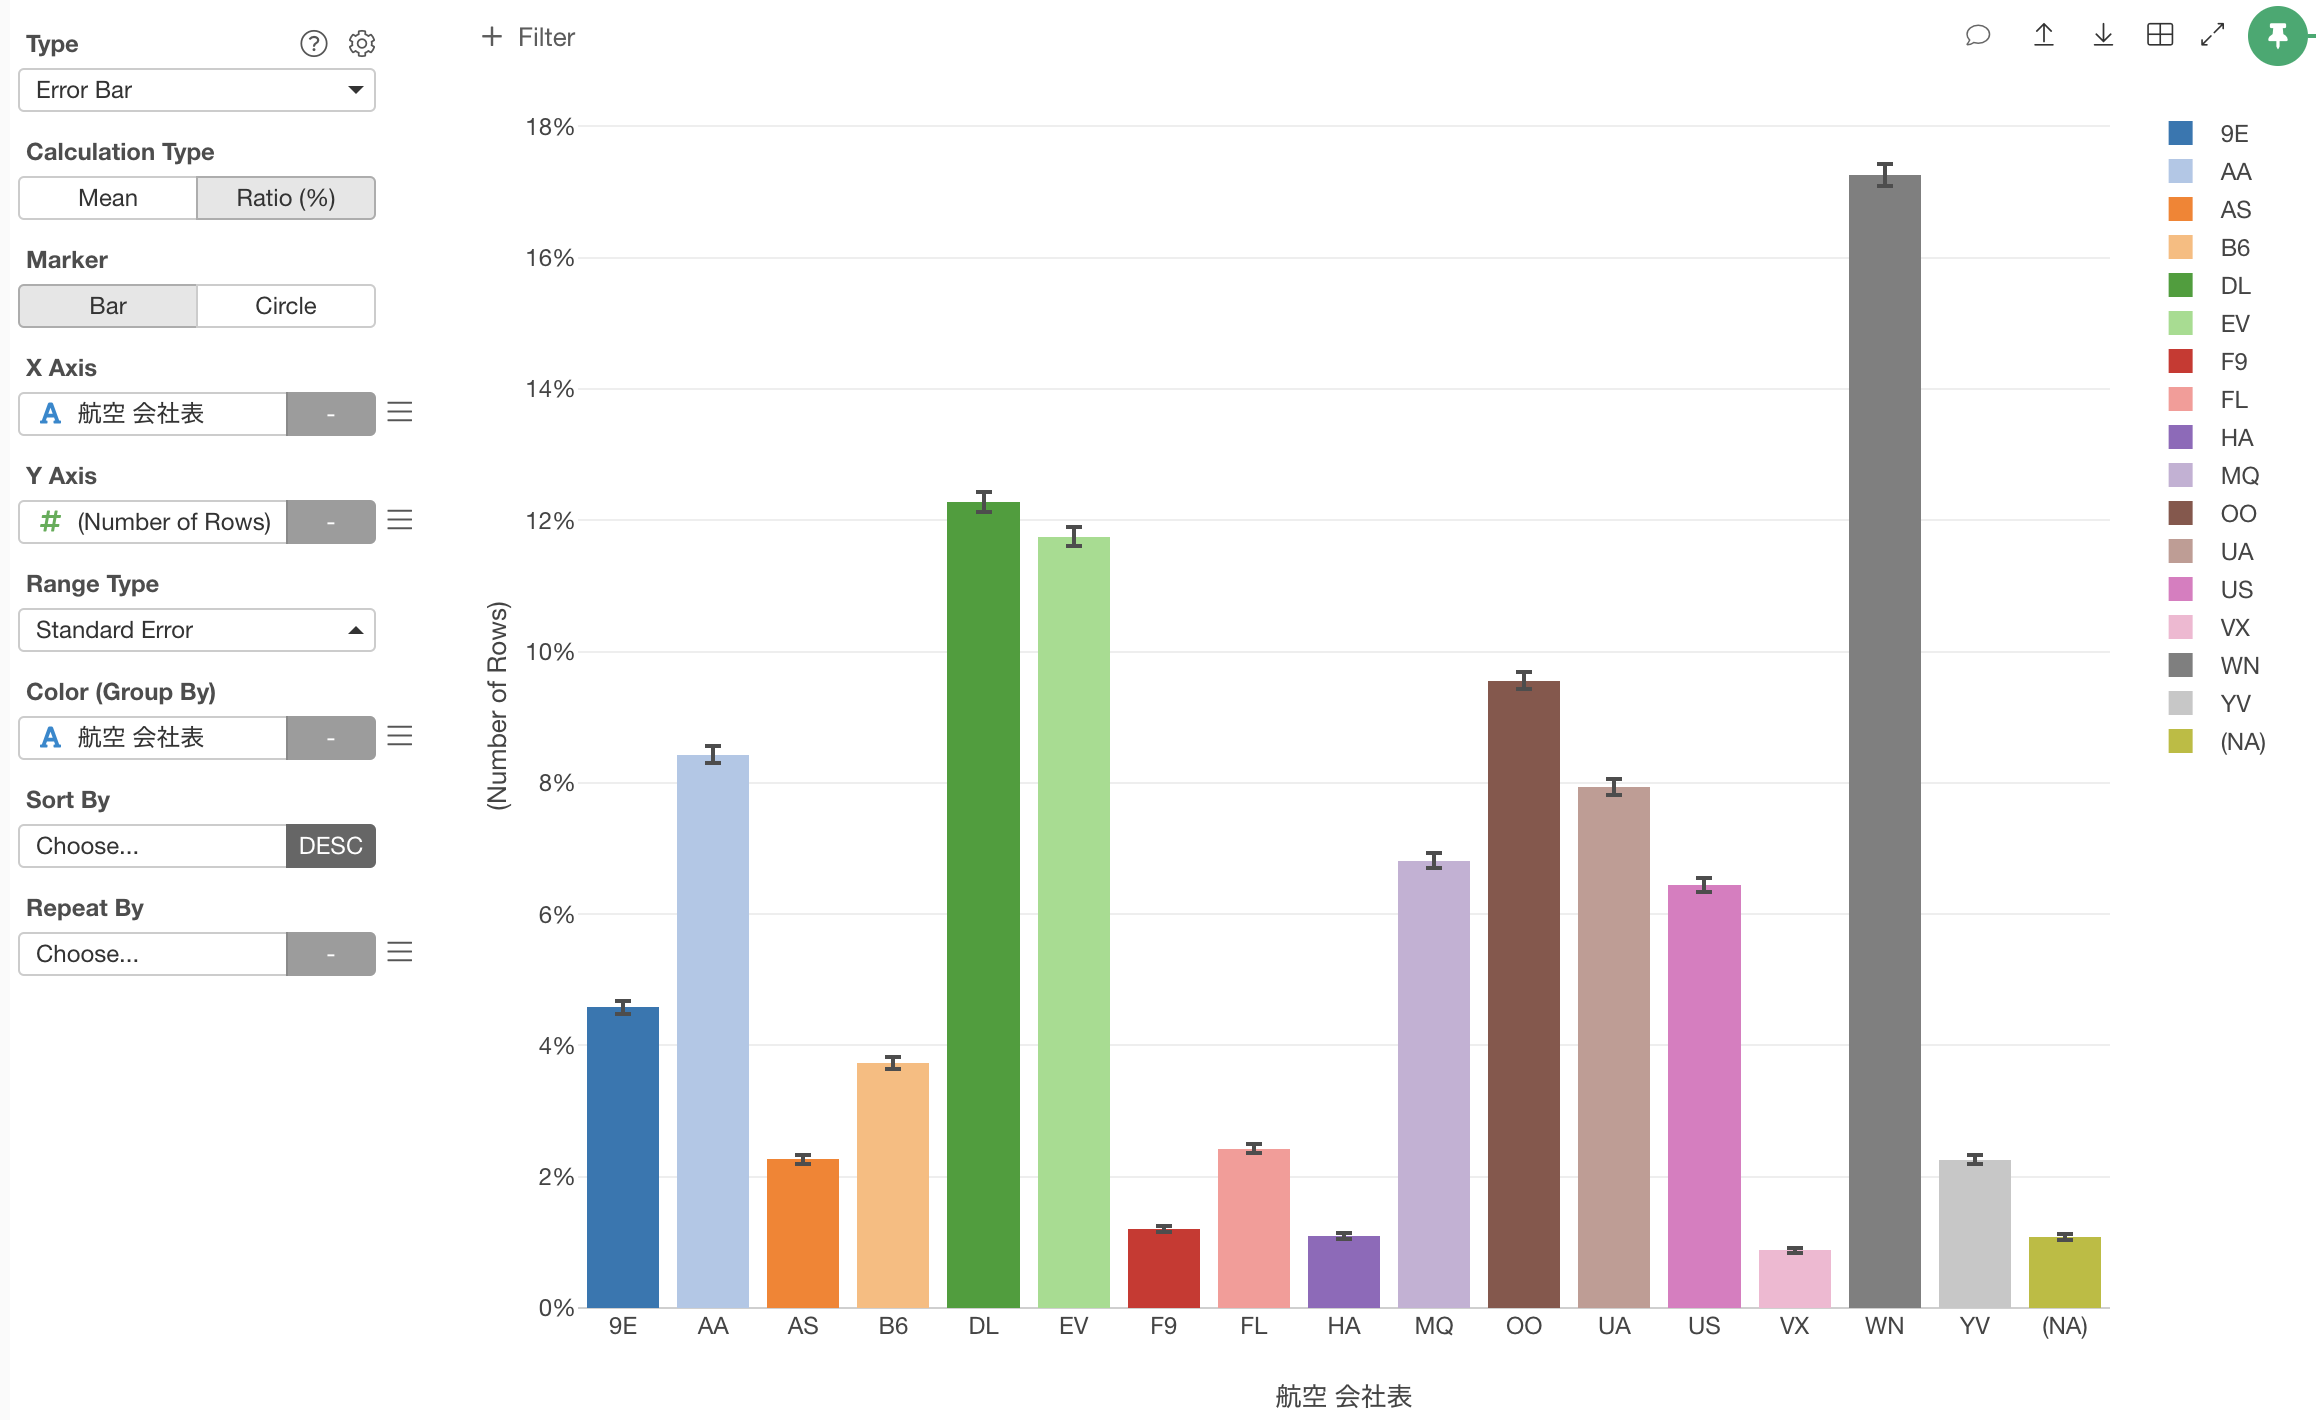
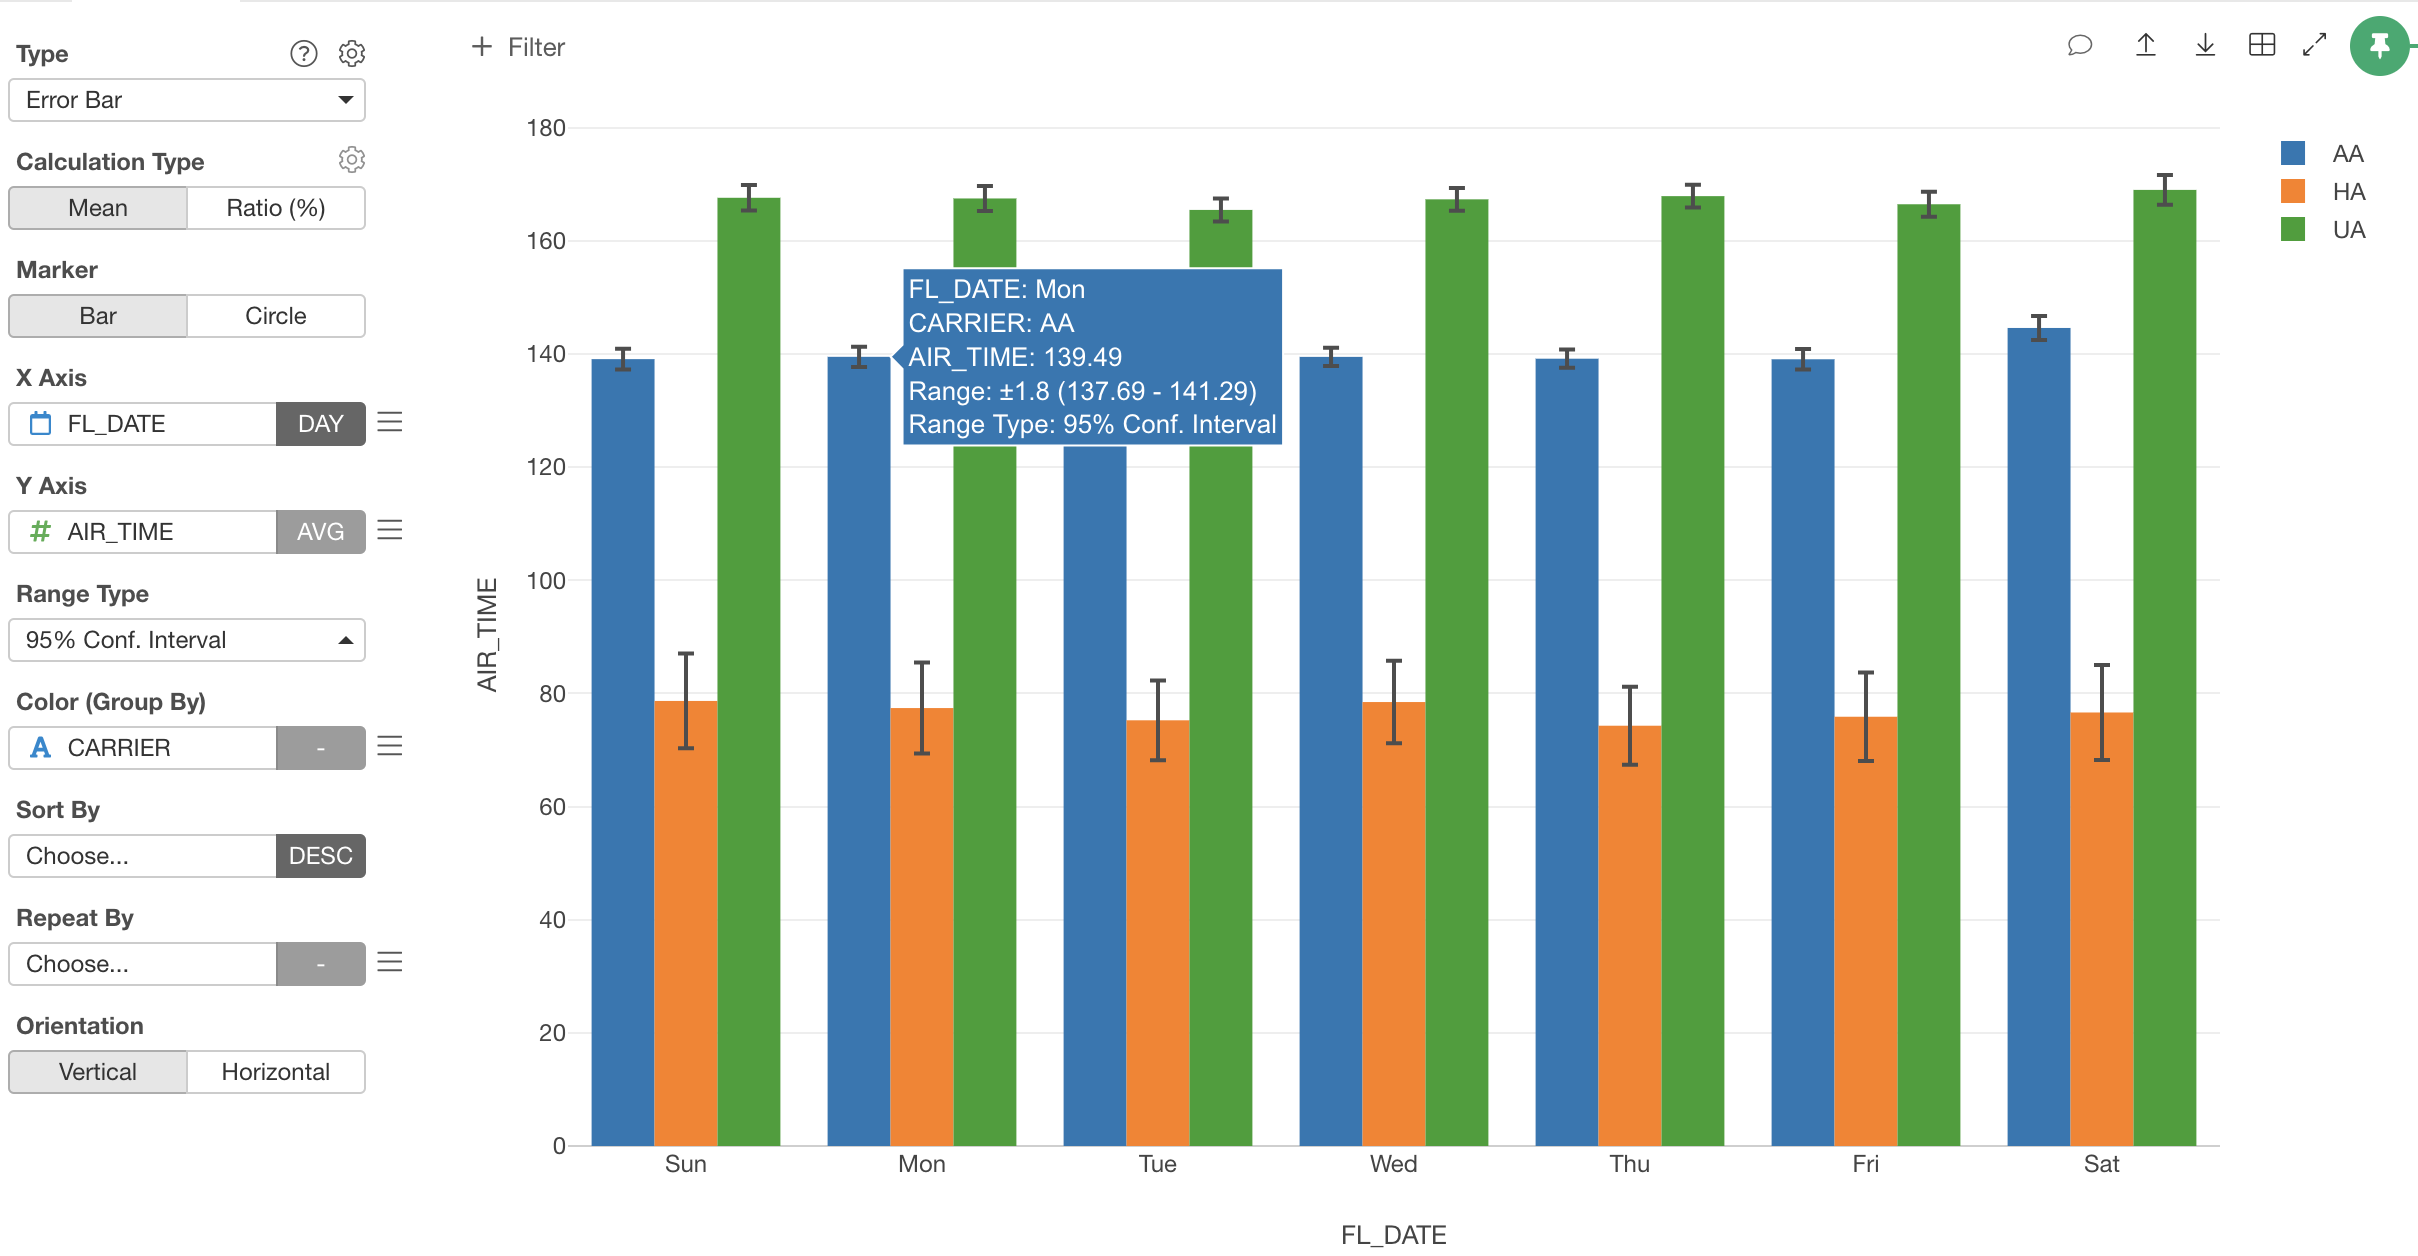
Add orientation to Error Bar.

diff --git a/viz/bar.md b/viz/bar.md
@@ -4,6 +4,7 @@
 
 ## Column Assignments
 
+* Orientation - You can choose a chart orientation. Either 'Vertical' or 'Horizontal'.
 * X-Axis - Assign a column you want to show at X-Axis. If it's a Date / Time column assigned, you can select the aggregation level such as `Month`, `Week`, `Day`, etc. If you assign a Number column, you can choose either `As Number` to treat values as continuous values or `As Text` to treat values as categorical values.  
 * Y-Axis - Assign a column you want to show at Y-Axis. If it's a Numeric column assigned, you can set the aggregation function such as `Sum`, `Mean (Average)`, etc. to aggregate the values. You can also assign a Window Calculation from the gear icon on Y-Axis. Look at [Window Calculation](window-calc.md) section for details.  
 * Color - Take a look at [Color](color.md) section for more details.

diff --git a/viz/errbar.md b/viz/errbar.md
@@ -32,6 +32,7 @@
 * Color - Take a look at [Color](color.md) section for more details.
 * Sort - Assign a column to use for Sorting the X-Axis values. The default is based on either the alphabetic order or the factor level order for Factor type columns.
 * Repeat By - You can assign a column to repeat the chart for each of its values. Take a look at [Small Multiple](small-multiple.md) section for more details.
+* Orientation - You can choose a chart orientation. Either 'Vertical' or 'Horizontal'.
 
 
 ## Highlight 
